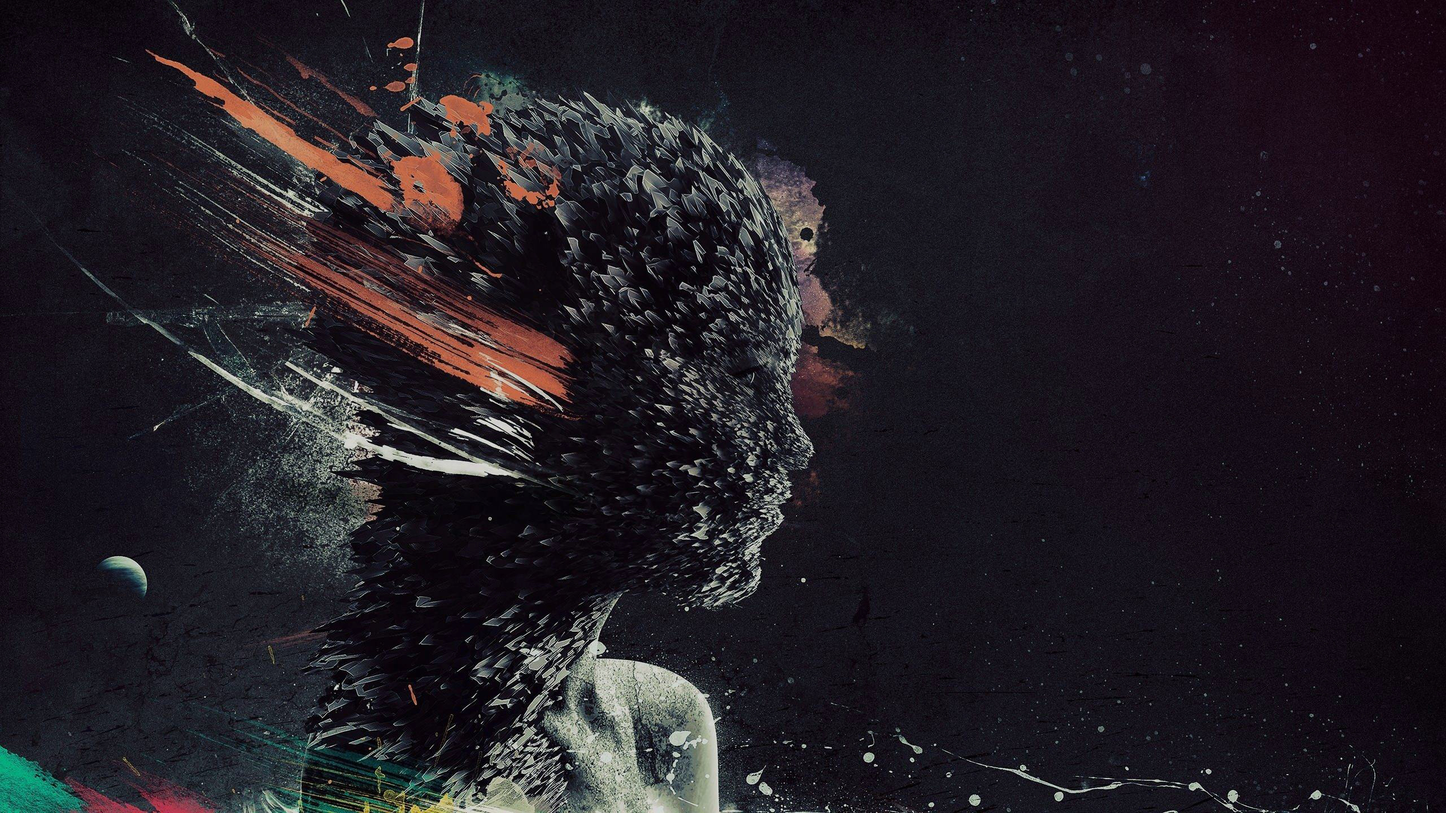
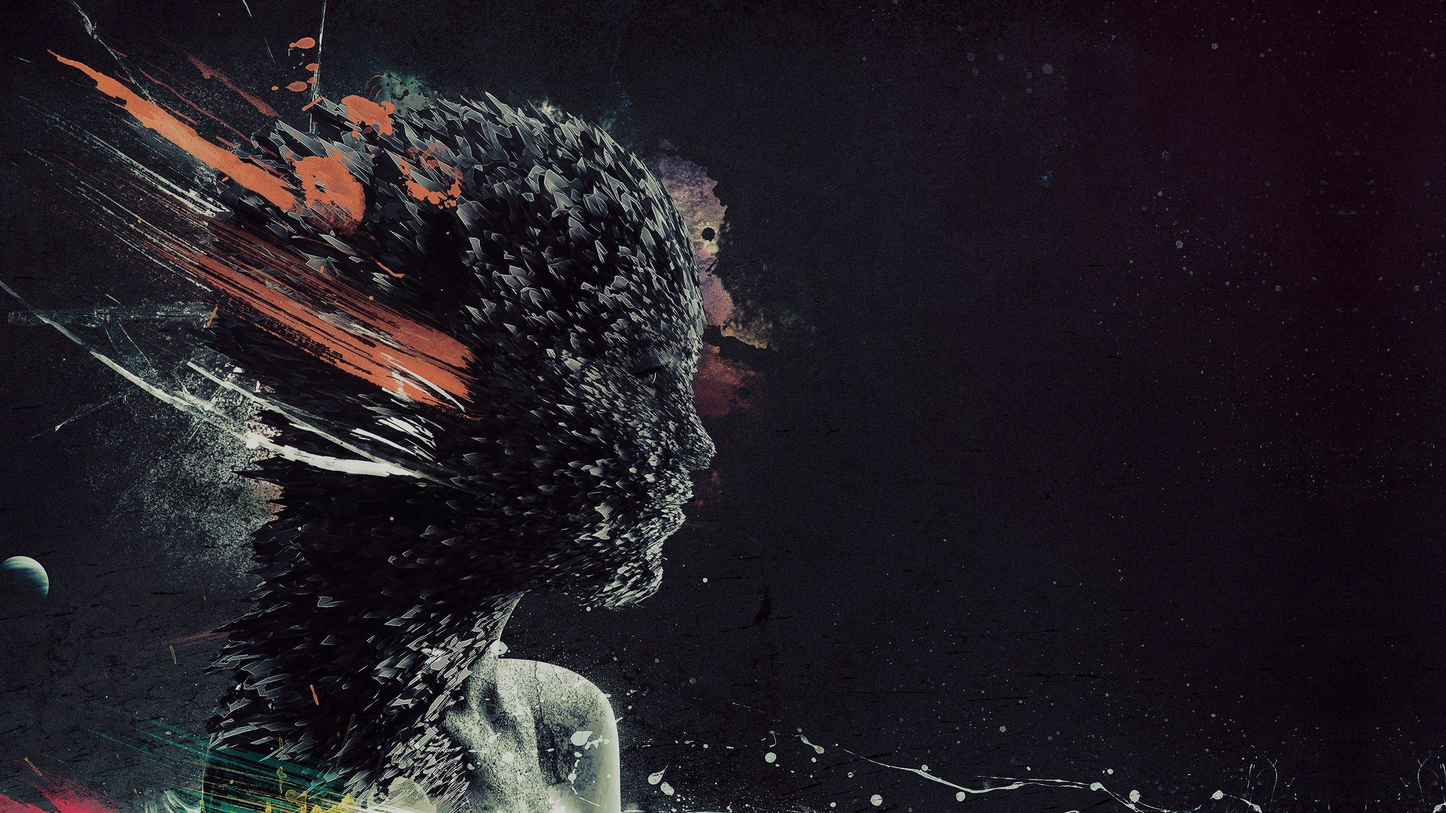
Changed homepage splash screen

diff --git a/app/assets/stylesheets/static_pages.scss b/app/assets/stylesheets/static_pages.scss
@@ -1,15 +1,20 @@
 @import "lib";
 
+html{
+  overflow-x: hidden;
+}
+
 section#home-1{
   background-image: image-url('face.jpg');
   background-size: cover;
   background-attachment: fixed;
-  width: 100vw;
-  height: 80vmin;
-  font: 300 10vw 'Raleway', helvetica, sans-serif;
-  text-align: center;
+  width: 92vw;
+  height: 82vmin;
+  font: 300 7vw 'Raleway', helvetica, sans-serif;
+  text-align: right;
+  padding-right:20vw;
   position: relative;
-  line-height: 80vmin;
+  line-height: 82vmin;
   color: rgba(255,255,255,0.8);
 }
 
